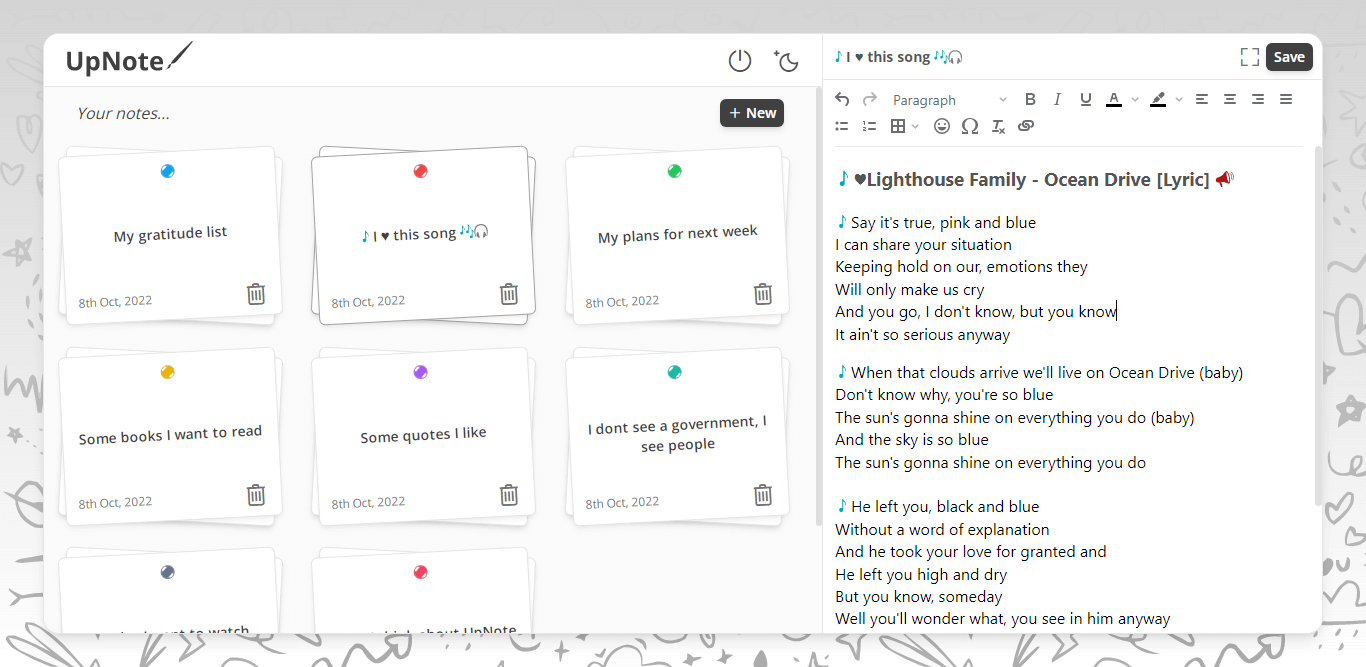
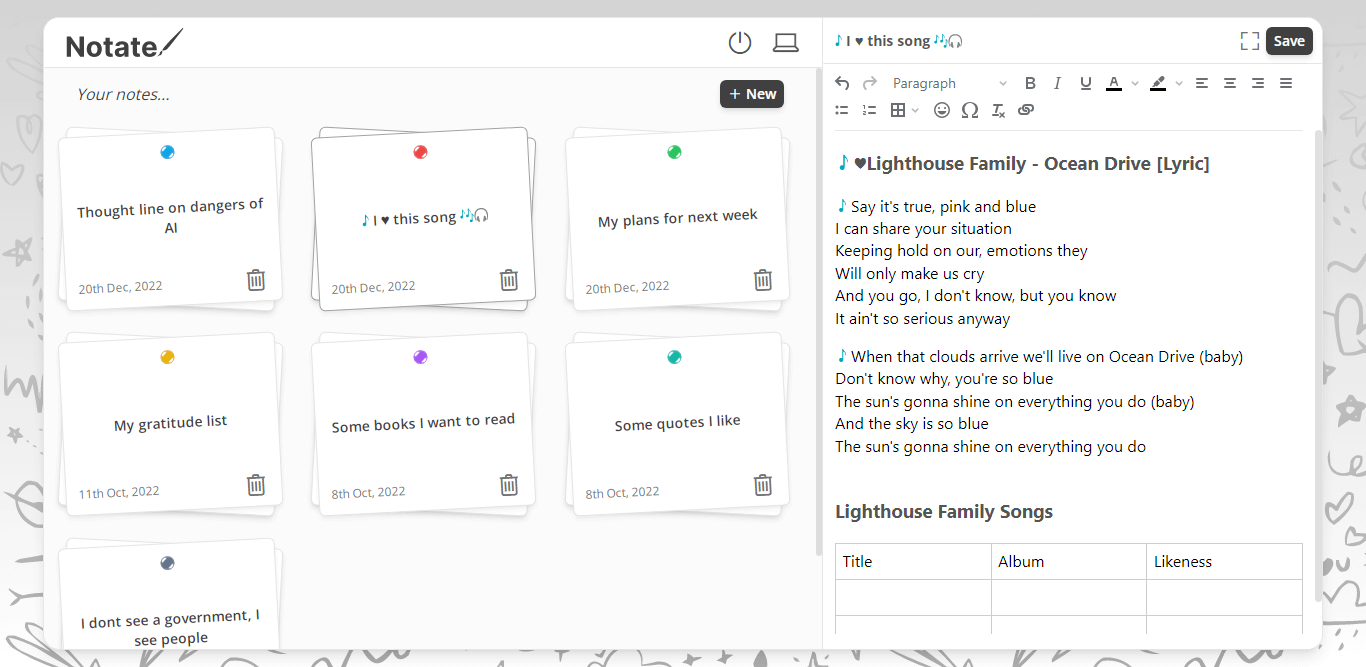
Made some major changes.

diff --git a/src/components/AppIntro.vue b/src/components/AppIntro.vue
@@ -20,10 +20,10 @@ onBeforeMount(() => {
 
         <div class="md:flex items-center md:h-screen max-w-5xl mx-auto pt-10 md:pt-0 md:mt-0 px-3 md:px-5 bg-grad relative z-10" data-aos="fade">
             <div class="md:mr-4 w-full md:w-1/2" data-aos="fade-right">
-                <img src="../assets/img/logo.svg" class="dark:hidden">
-                <img src="../assets/img/logo_dark.svg" class="hidden dark:block">
+                <img src="../assets/img/logo.svg" class="w-[215px] mb-2 dark:hidden">
+                <img src="../assets/img/logo_dark.svg" class="w-[215px] mb-2 hidden dark:block">
                 
-                <p class="mb-3 text-base text-neutral-900 dark:text-neutral-300">UpNote is an effective and intuitive cloud-based note-taking tool with a great user experience for writing down ideas, taking quick notes or keeping a journal at any time, synced across multiple devices.</p>
+                <p class="mb-3 text-base text-neutral-900 dark:text-neutral-300">Notate is an effective and intuitive cloud-based note-taking tool with a great user experience for writing down ideas, taking quick notes or keeping a journal at any time, synced across multiple devices.</p>
                 
                 <div class="flex items-center">
                     <button class="rounded-full bg-neutral-300 dark:bg-neutral-700 text-neutral-500 dark:text-neutral-300/90 text-lg font-semibold px-5 py-2" v-wave @click="store.displayAuthModal(true)">Get Started</button>
@@ -38,7 +38,7 @@ onBeforeMount(() => {
 
     <div class="absolute bottom-0 z-10 w-full text-center text-[0.82rem] text-neutral-900 dark:text-neutral-300 py-1">
         <a href="https://artisticlogicmk.one" target="_blank" class="mr-2.5 hover:underline"><i class="la la-globe"></i> artisticlogicmk.one</a>
-        <a href="https://github.com/artisticLogicMK/upnote" target="_blank" class="hover:underline"><i class="la la-github"></i> Source code</a>
+        <a href="https://github.com/artisticLogicMK/notate" target="_blank" class="hover:underline"><i class="la la-github"></i> Source code</a>
     </div>
 
     <AuthModal />

diff --git a/index.html b/index.html
@@ -3,11 +3,11 @@
   <head>
     <meta charset="UTF-8" />
     <meta name="viewport" content="width=device-width, initial-scale=1.0, user-scalable=no">
-    <meta name="description" content="UpNote is an effective and intuitive cloud-based note-taking tool with a great user experience for writing down ideas, taking quick notes or keeping a journal at any time, synced across multiple devices." />
-	  <meta property="og:image" content="https://upnote.netlify.app/social.png" />
+    <meta name="description" content="Notate is an effective and intuitive cloud-based note-taking tool with a great user experience for writing down ideas, taking quick notes or keeping a journal at any time, synced across multiple devices." />
+	  <meta property="og:image" content="https://notate.netlify.app/social.png" />
     <meta name="theme-color" content="#ffffff">
     <link rel="icon" href="/icon.png" />
-    <title>UpNote</title>
+    <title>Notate</title>
     <script type="text/javascript">
       if (localStorage.theme === 'dark' || (!('theme' in localStorage) && window.matchMedia('(prefers-color-scheme: dark)').matches)) {
           document.documentElement.classList.add('dark')

diff --git a/src/components/NoteBoard/TinyMCEEditor.vue b/src/components/NoteBoard/TinyMCEEditor.vue
@@ -12,12 +12,12 @@ const theme = localStorage.theme == 'dark' || window.matchMedia('(prefers-color-
         <editor
 
             class="h-full"
-            api-key="dg1dg1qvjqzxkj73yr8lnj35hm62eqk4mdhkor94w7h844mo"
+            api-key="q9i5915bgf2zeqvmqylxcm97ztznewvkfjt5nho9ax0ievr0"
             v-model="noteStore.noteEditor.data"
             :init="{
                 menubar: false,
                 statusbar: false,
-                //icons: 'small',
+                icons: 'small',
                 plugins: [
                     'lists link image charmap emoticons',
                     'table paste'

diff --git a/src/components/NoteBoard/ThemeSwitch.vue b/src/components/NoteBoard/ThemeSwitch.vue
@@ -79,7 +79,7 @@ const setTheme = (mode) => {
     ></i>
 
     <i
-        class="la la-moon themeIcos"
+        class="la la-cloud-moon themeIcos"
         v-else
         @click="!isChanging ? setTheme('dark') : ''"
         data-aos="fade-down" data-aos-offset="0"

diff --git a/README.md b/README.md
@@ -1,9 +1,9 @@
-<h1 align="center">UpNote</h1>
+<h1 align="center">Notate</h1>
 
 <p align="center"><img src="public/social.png"></p>
 
 <h3 align="center">
-UpNote is an effective and intuitive cloud-based note-taking tool with a great user experience for writing down ideas, taking quick notes or keeping a journal at any time, synced across multiple devices.
+Notate is an effective and intuitive cloud-based note-taking tool with a great user experience for writing down ideas, taking quick notes or keeping a journal at any time, synced across multiple devices.
 </h3>
 
 <h4 align="center">
@@ -22,7 +22,7 @@ Made with
 <h3>
 <strong>Links</strong>
 
-<a href="https://upnote.netlify.app" target="_blank">View the app in action.</a>
+<a href="https://notate.netlify.app" target="_blank">View the app in action.</a>
 
 <a href="https://www.behance.net/gallery/154544225/UpNote-Note-taking-application" target="_blank">Check out more screenshots on behance.</a>
 </h3>
